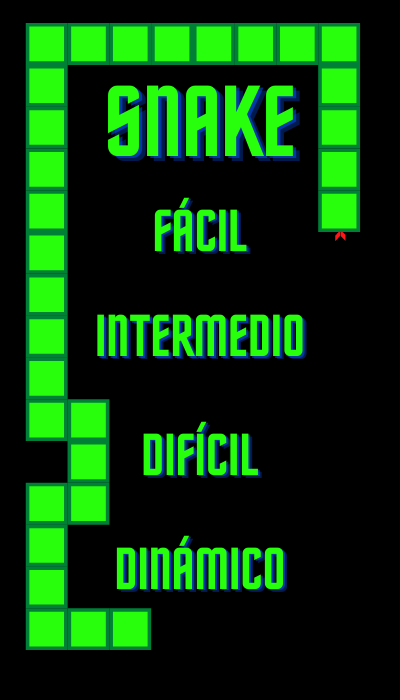
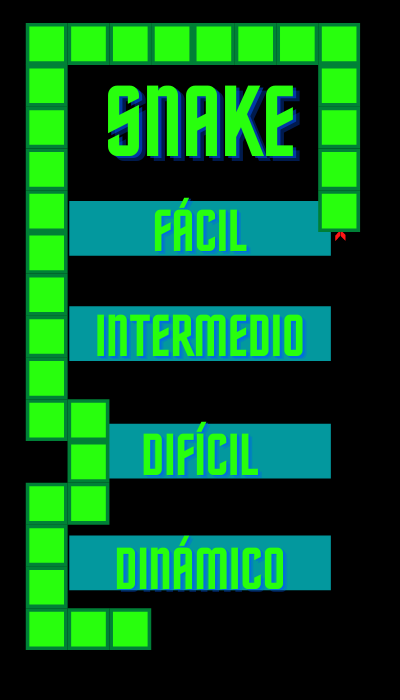
Avances
avances mouse y ventanas

diff --git a/snake/Source.cpp b/snake/Source.cpp
@@ -5,22 +5,59 @@ using namespace std;
 
 int main() {
 	//variables
-	bool salir = false;
-	int x = 0, y = 0;
+	bool salir = false, menuprincipal = true;
+	int x = 0, y = 0, botonmenu = 0;
 	al_init();
 	al_install_mouse();
 	al_install_keyboard();
 	al_init_image_addon();
 
 	ALLEGRO_DISPLAY* Menu = al_create_display(400, 700);
+	ALLEGRO_DISPLAY* Tablero;
 	ALLEGRO_BITMAP* Imamenu = al_load_bitmap("Imagenes/Snake Principal.png");
-	ALLEGRO_BITMAP* Imamenufa = al_load_bitmap("Imagenes/Snake Facil.png");
-	ALLEGRO_BITMAP* Imamenuint = al_load_bitmap("Imagenes/Snake Intermedio.png");
-	ALLEGRO_BITMAP* Imamenudif = al_load_bitmap("Imagenes/Snake Dificil.png");
-	ALLEGRO_BITMAP* Imamenudin = al_load_bitmap("Imagenes/Snake Dinamico.png");
+	ALLEGRO_COLOR map = al_map_rgb(120, 51, 36);
+	ALLEGRO_EVENT_QUEUE* eventoqueue = al_create_event_queue();
+	al_register_event_source(eventoqueue, al_get_mouse_event_source());
+	ALLEGRO_EVENT Evento;
+	
 
 	while (salir == false) {
-		al_draw_bitmap(Imamenu, 0, 0, 0);
+		al_wait_for_event(eventoqueue, &Evento);
+		if (Evento.type == ALLEGRO_EVENT_MOUSE_AXES) {
+			x = Evento.mouse.x;
+			y = Evento.mouse.y;
+		}
+		
+		if (menuprincipal == true) {
+			if (botonmenu == 0) {
+				al_draw_bitmap(Imamenu, 0, 0, 0);
+			}
+			if (botonmenu != 0) {
+				Tablero = al_create_display(1000, 1000);
+				al_clear_to_color(map);
+				menuprincipal = false;
+			}
+			if (Evento.mouse.button & 1) {
+				if (x >= 85 && x <= 324 && y >= 190 && y <= 254) {
+					botonmenu = 1;
+				}
+				if (x >= 85 && x <= 324 && y >= 304 && y <= 365) {
+					botonmenu = 2;
+				}
+				if (x >= 85 && x <= 324 && y >= 415 && y <= 483) {
+					botonmenu = 3;
+				}
+				if (x >= 85 && x <= 324 && y >= 529 && y <= 594) {
+					botonmenu = 4;
+				}
+			}
+		}
+		
+
+
+
+
+
 		al_flip_display();
 	}
 
